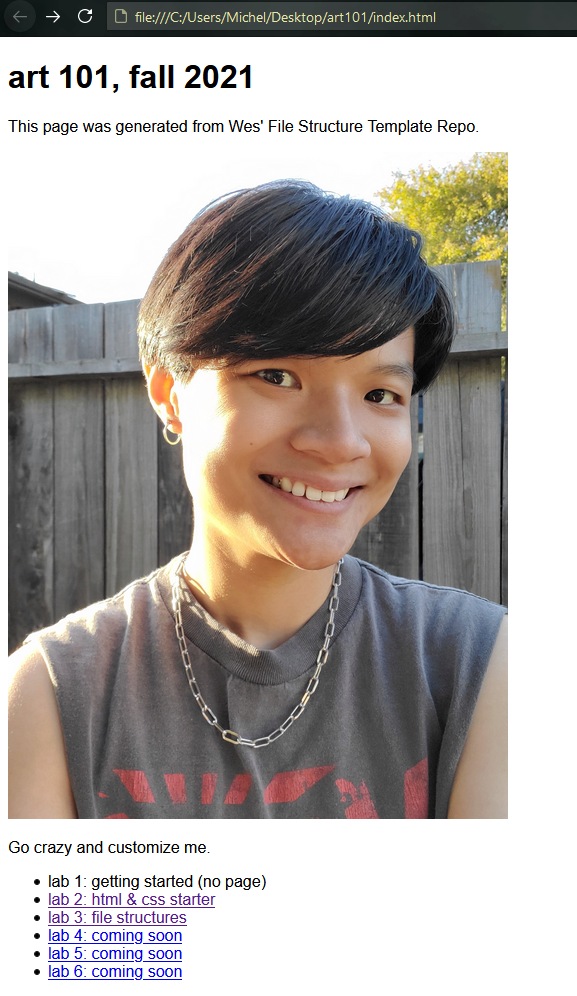
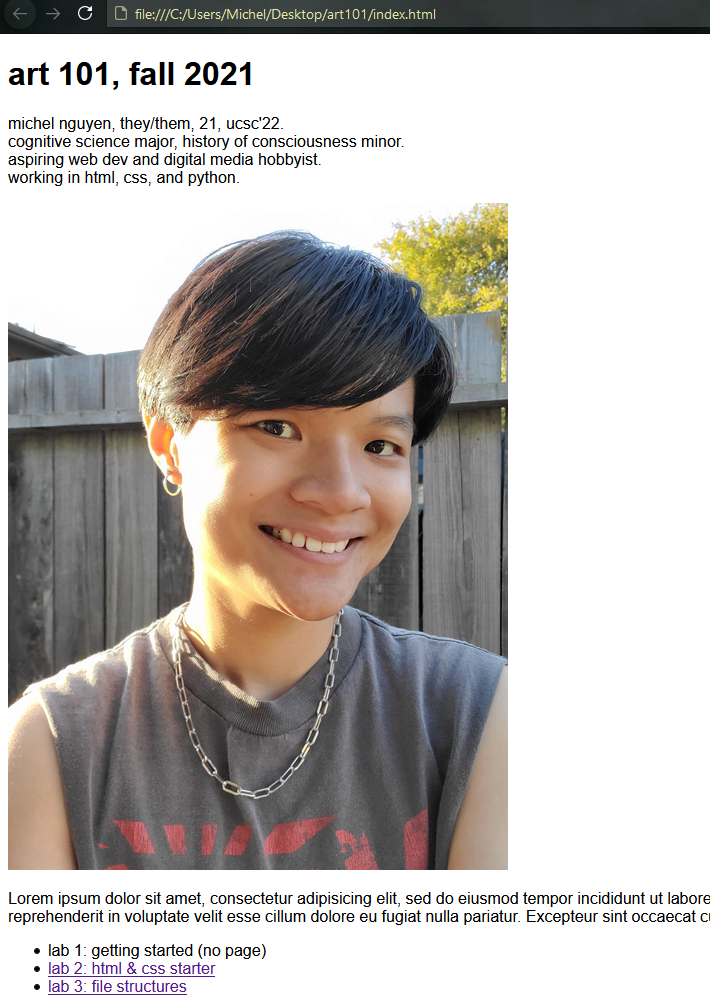
added brief "about me" description to home page

diff --git a/index.html b/index.html
@@ -8,9 +8,9 @@
 	<main>
 		<div>
 			<h1> art 101, fall 2021 </h1>
-			<p>This page was generated from Wes' File Structure Template Repo.</p>
+			<p> michel nguyen, they/them, 21, ucsc'22.<br>cognitive science major, history of consciousness minor.<br>aspiring web dev and digital media hobbyist.<br>working in html, css, and python.</p>
 			<img id="my-portrait" src="img/selfie.jpg" />
-			<p>Go crazy and customize me.</p>
+			<p>Lorem ipsum dolor sit amet, consectetur adipisicing elit, sed do eiusmod tempor incididunt ut labore et dolore magna aliqua. Ut enim ad minim veniam, quis nostrud exercitation ullamco laboris nisi ut aliquip ex ea commodo consequat. Duis aute irure dolor in reprehenderit in voluptate velit esse cillum dolore eu fugiat nulla pariatur. Excepteur sint occaecat cupidatat non proident, sunt in culpa qui officia deserunt mollit anim id est laborum.</p>
 			<ul>
 				<li>lab 1: getting started (no page)</li>
 				<li><a href="lab2/index.html">lab 2: html & css starter</a></li>
